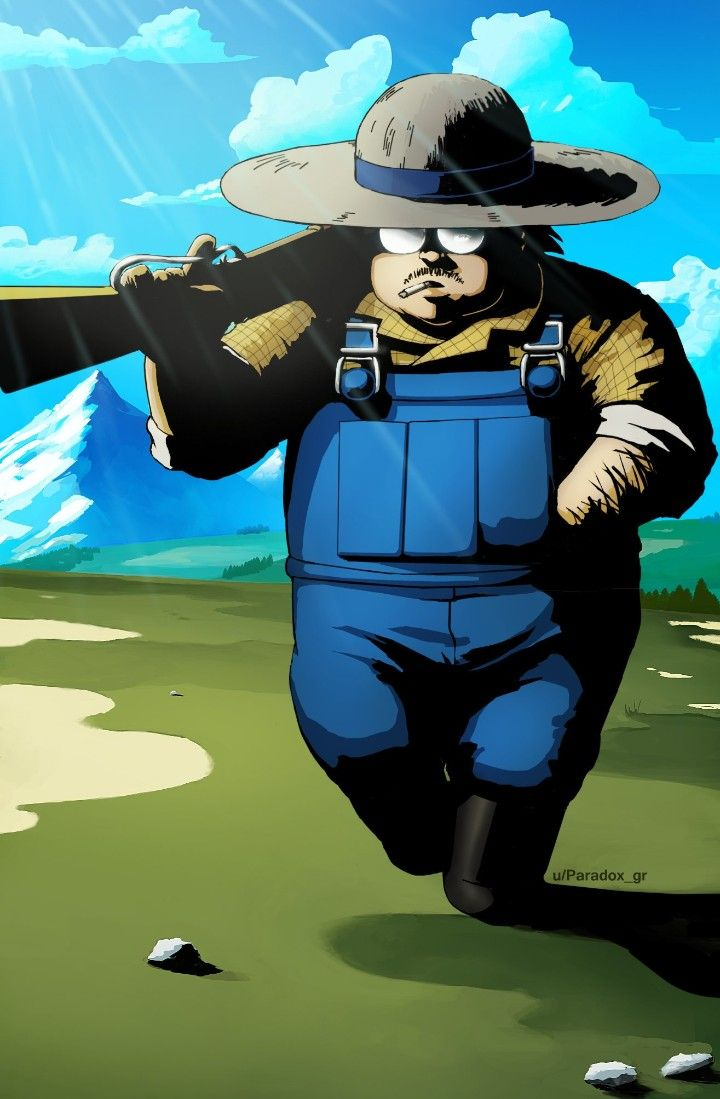
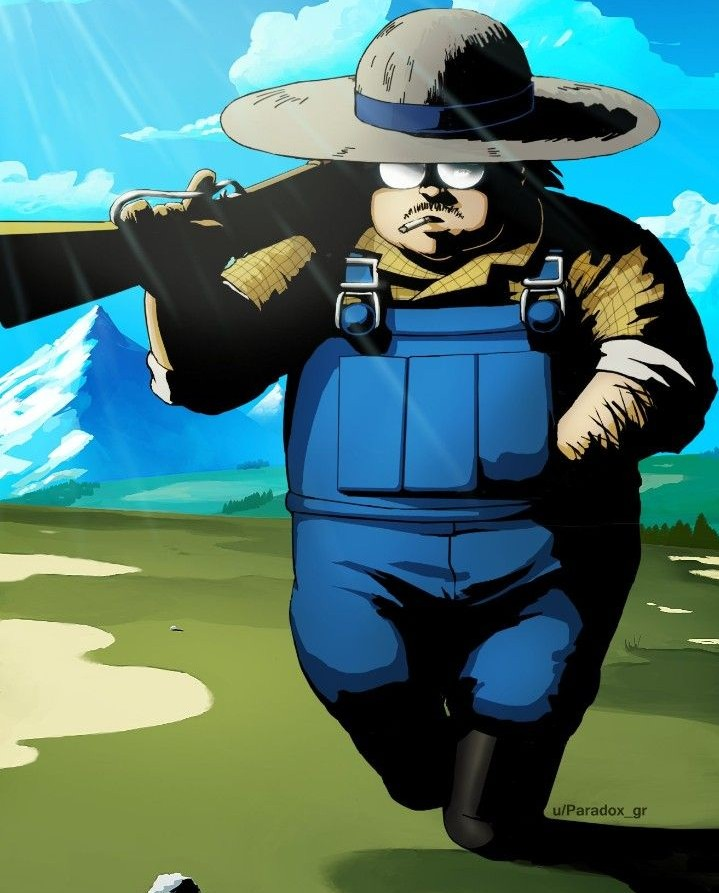
ridimensionata prev-image, aggiunta una carta,ridotto spazio colonne in mobile

diff --git a/CSS/collezione.css b/CSS/collezione.css
@@ -211,7 +211,7 @@ div.grid-cont{
   margin-right: auto;
   width: auto;
   display: grid;
-  grid-template-columns: repeat(2,200px);
+  grid-template-columns: repeat(2,170px);
   grid-auto-rows: 250px;
   margin-block: 20px;
 }

diff --git a/CSS/main.css b/CSS/main.css
@@ -106,6 +106,8 @@ div.card-fill{
 /* CARD CONTENT */
 .card-fill .previmg{
     height: 50%;
+    /*object-fit: contain;*/
+    object-position: 0 0;
     flex-shrink: 0;
 }
 

diff --git a/PHP/displayCollection.php b/PHP/displayCollection.php
@@ -37,7 +37,7 @@
                     $id=$tuple['id'];
                     $p=$tuple['posseduta'];
                     //DEBUG TOGLIERE// 
-                    //if($id>4) $id = '12';
+                    if($id==8) $id = '14';
                     //
                     if($p==1){
                         echo"<div class=\"preview\" id='cc's>
@@ -70,7 +70,6 @@
                             if(statusTxt == \"error\")
                                 alert(\"Errore\" + xhr.status + \":\" + xhr.statusText);
                         });
-                        console.log(this.dataset.position);
                         showOverlay();
                     });
                 });</script>";
